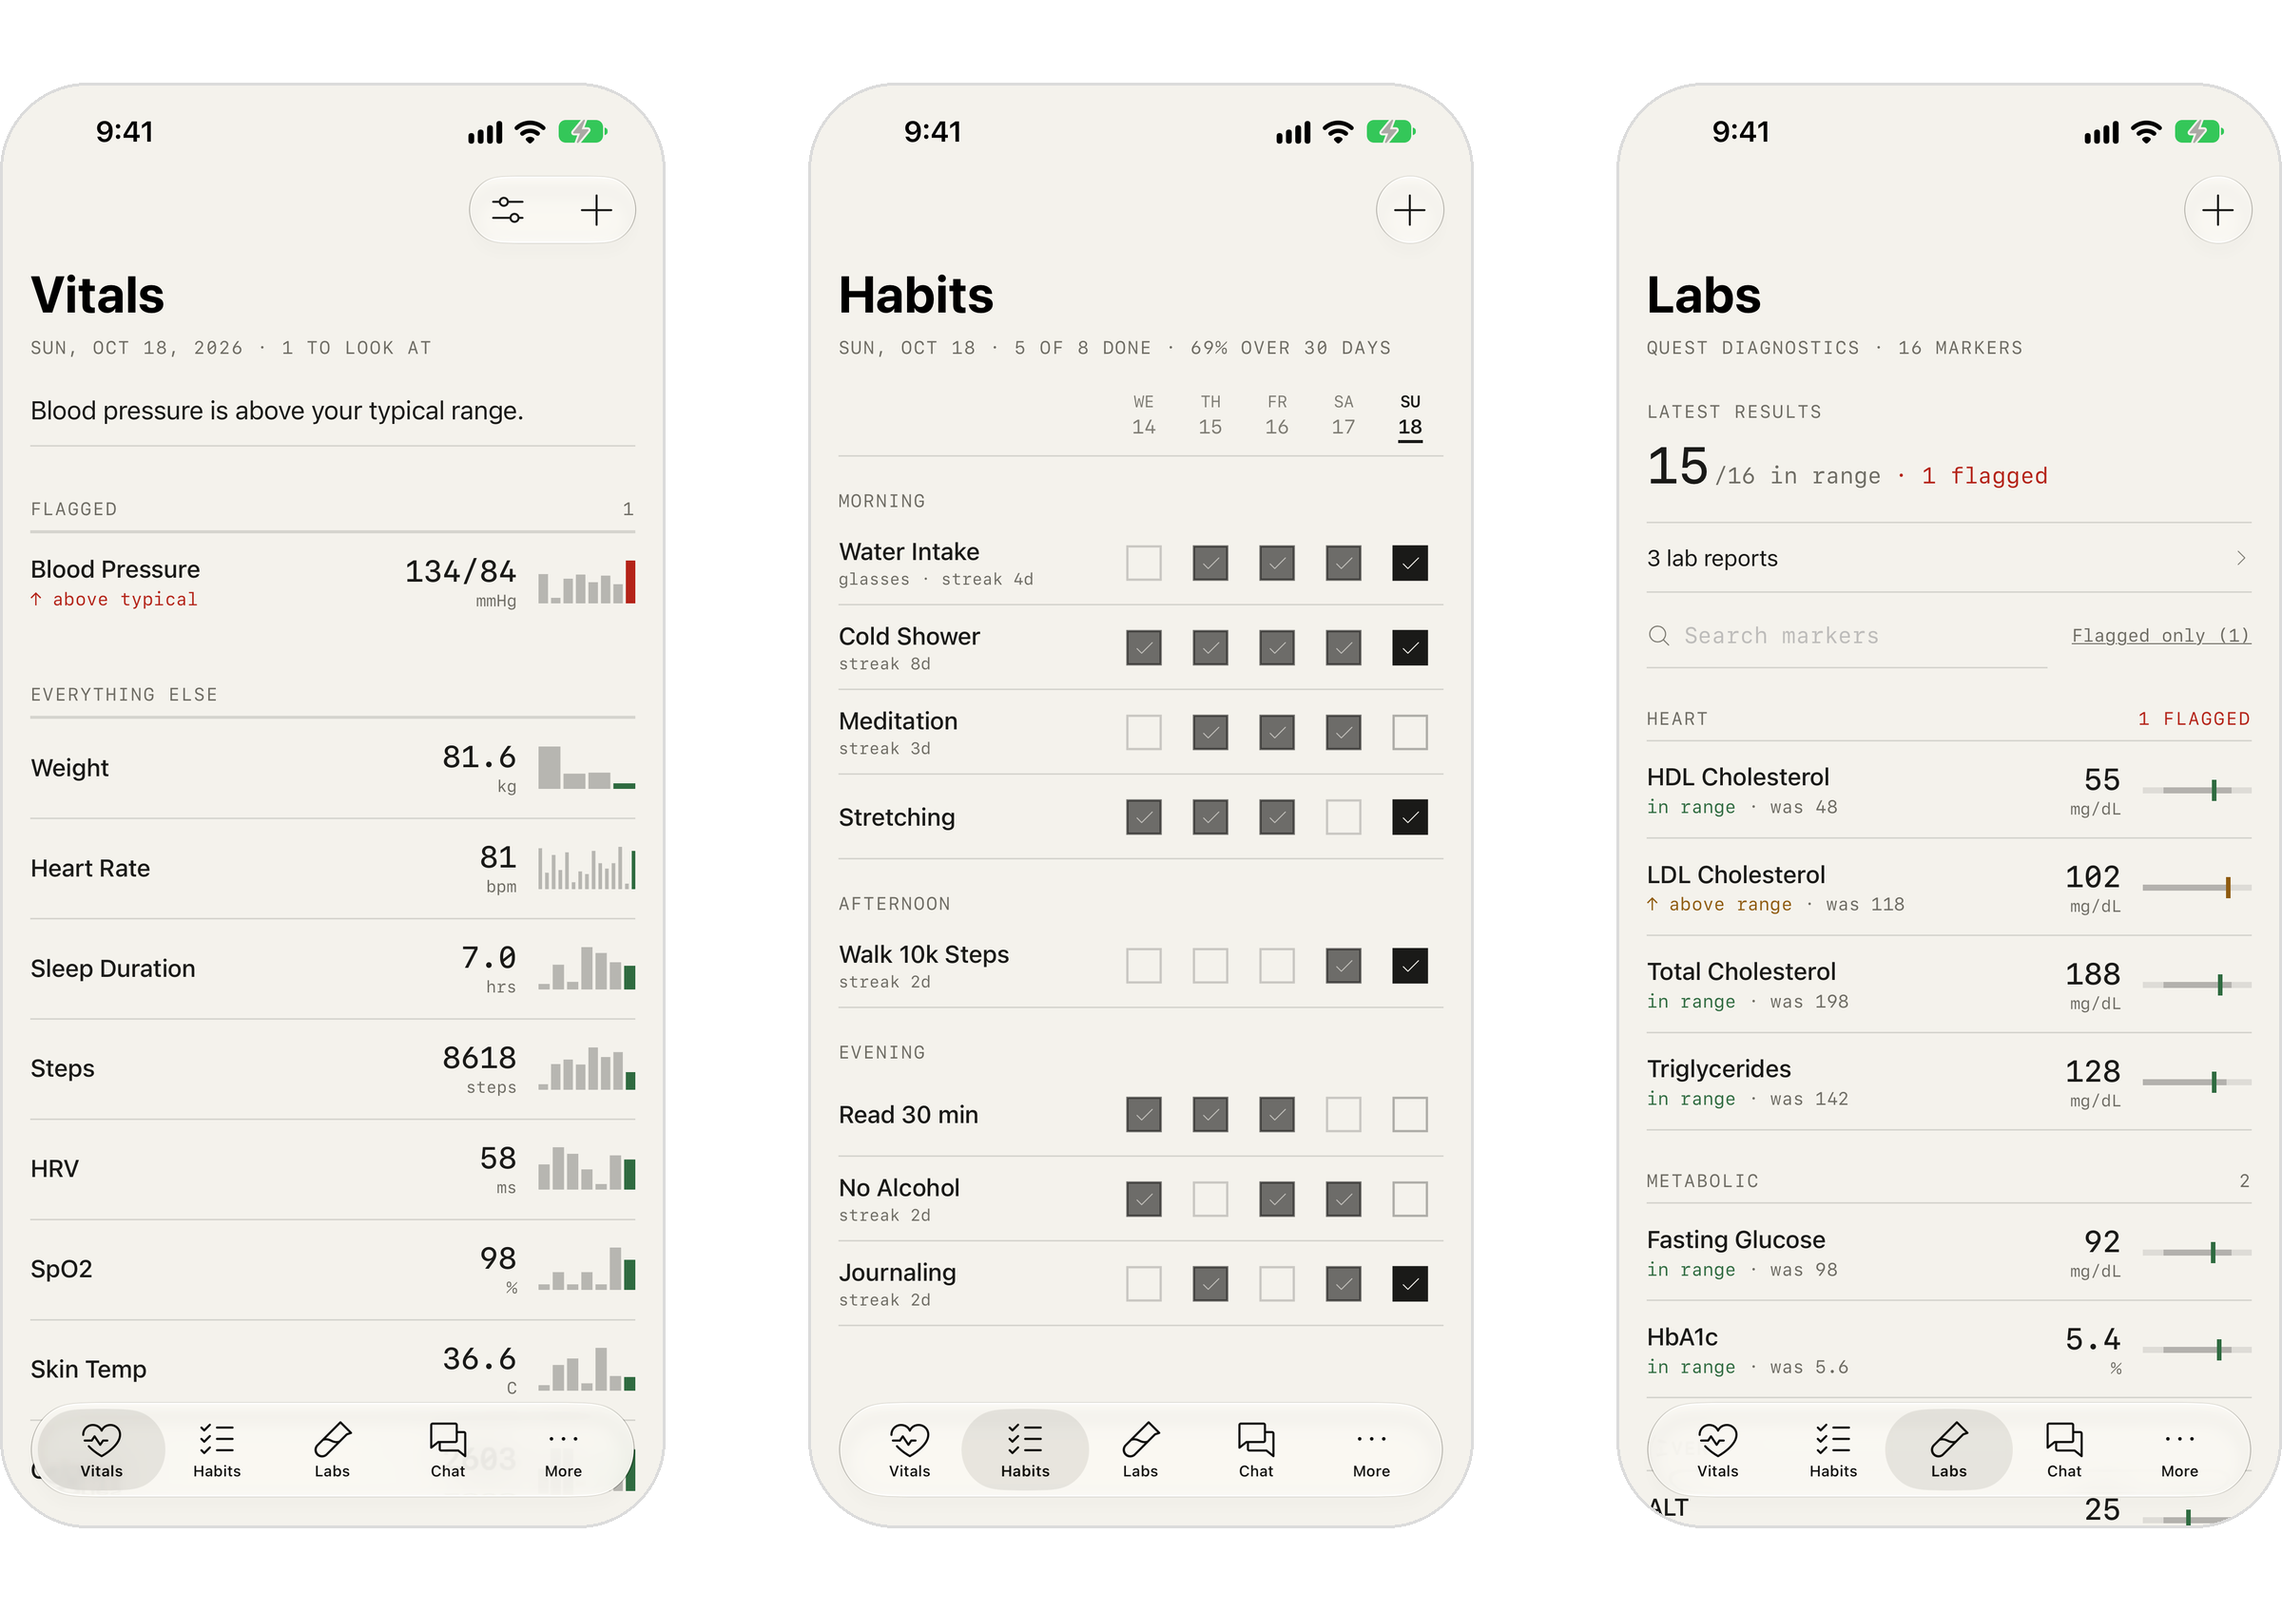
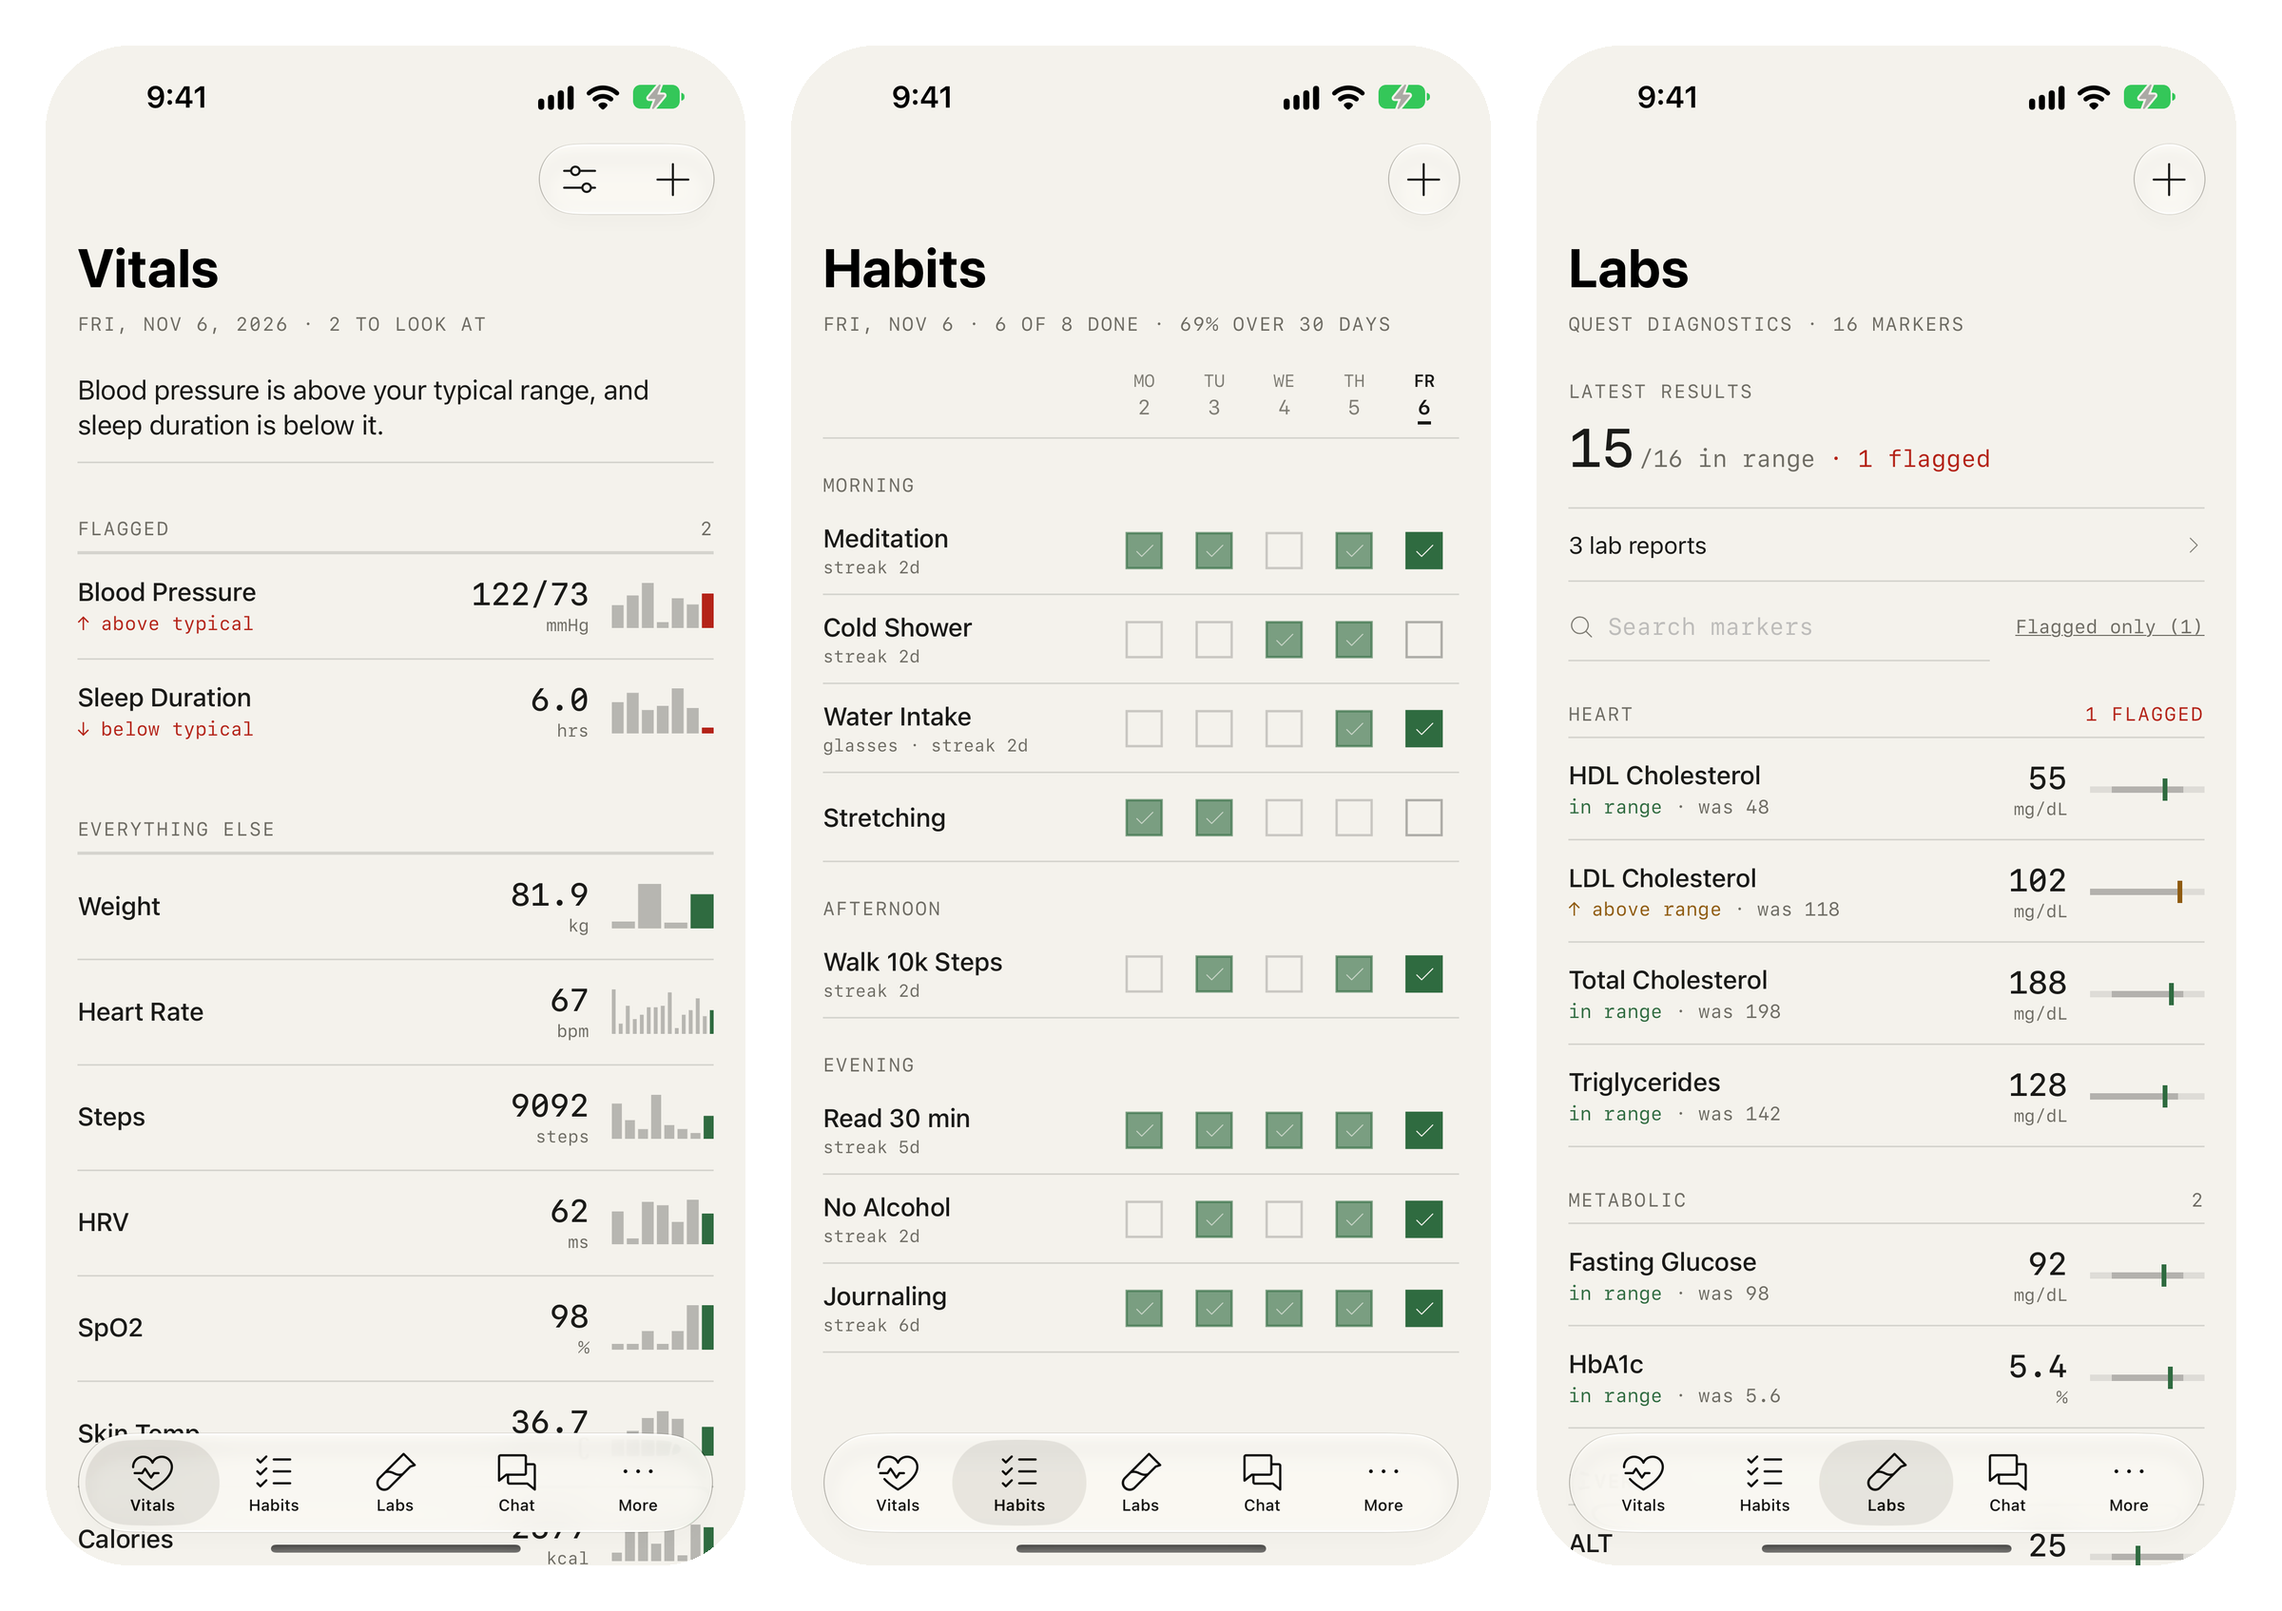
Use the walkthrough video as the README preview
Drops the hero screenshot now that the video sits under the hero, and refreshes
the screenshot and chat images the tour still uses.

diff --git a/README.md b/README.md
@@ -15,8 +15,6 @@ Built for people who want to understand their own data, not just collect it.</p>
 
 <p><a href="#install">Build Aura from source</a></p>
 
-![Aura's Vitals, Habits and Labs screens with sample data](assets/screenshot.png)
-
 https://github.com/user-attachments/assets/a90cf41c-90cd-432d-a799-c17845141dd6
 
 I started Aura after the spreadsheet where I tracked biomarkers, habits and health notes became harder to read than the data in it. It began as a web app; moving to Swift made a private iPhone app with Apple Health possible.
